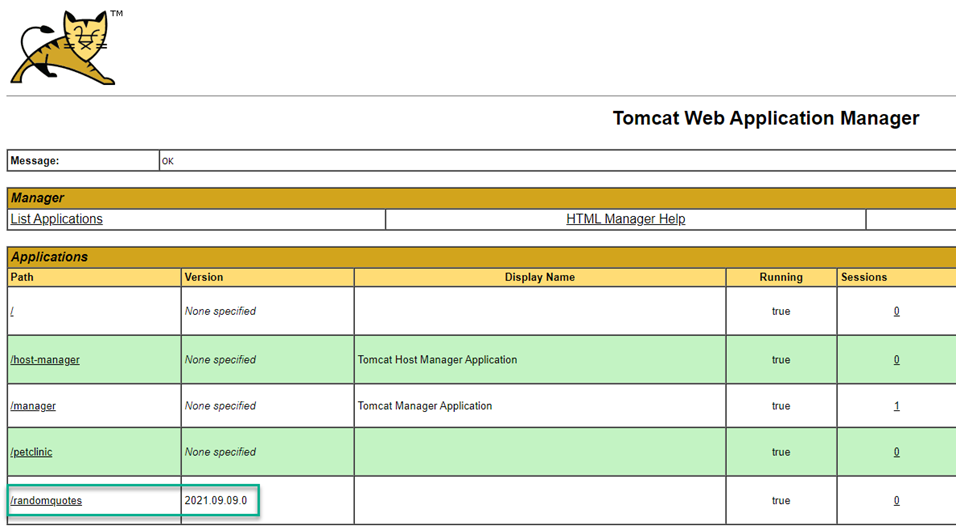
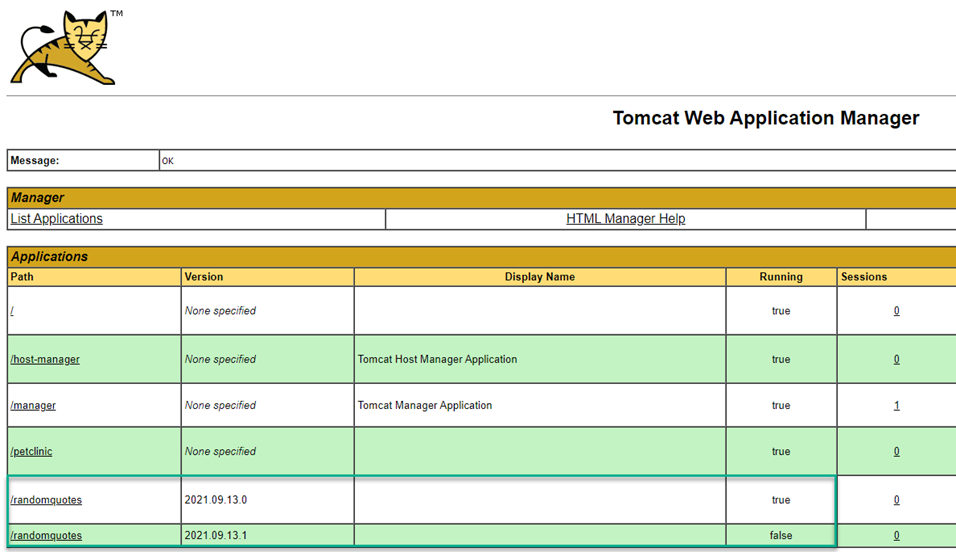
Finishing up tomcat

diff --git a/docs/deployments/patterns/rollbacks/tomcat/index.md b/docs/deployments/patterns/rollbacks/tomcat/index.md
@@ -9,15 +9,24 @@ In Tomcat v7, Apache included the ability to do [parallel deployments](https://t
 ## Configuring an application rollback for Tomcat
 The following guide will configure a code rollback for the Random Quotes application.  The deployment process will consist of the following steps:
 - Calculate Deployment Mode
+- Rollback reason
 - Deploy Random Quotes to Tomcat
 - Start App in Tomcat
 - Stop App in Tomcat
+- Block Release Progression
+
+:::warning
+The rollback strategy described in this guide will not work if the [undeployOldVersions](https://tomcat.apache.org/tomcat-9.0-doc/config/host.html) feautre is enabled on Tomcat.
+:::
 
 ### Calculate Deployment Mode
 The first step in your process is going to be determining what scenario you're working with.  The [Calculate Deployment Mode](https://library.octopus.com/step-templates/d166457a-1421-4731-b143-dd6766fb95d5/actiontemplate-calculate-deployment-mode) Community Step Template has been expressly created for this purpose by the Octopus Solutions team.  This template produces a set of [Output Variables](https://octopus.com/docs/deployments/custom-scripts/output-variables) that tell you what scenario has been detected.  In addition, the template produced output variables in [Variable Run Condition](https://octopus.com/docs/projects/steps/conditions) syntax that can be applied to subsequent steps.
 :::info
 The Calculate Deployment Mode step template requires no configuration or parameters.
 :::
+
+### Rollback reason
+This is a [Manual Intervention](https://octopus.com/docs/projects/built-in-step-templates/manual-intervention-and-approvals) step which prompts the user for the reason they are rolling back.  The text entered is stored in an output variable which will be used in the Block Release Progression step further down the process.
 
 ### Deploy Random Quotes to Tomcat Via Manager
 Octopus Deploy contains a built-in step to deploy to a Tomcat server using the Manager feature.  Under the `Advanced Options` section, you will find the place to specify the version number of the application as mentioned above.  When deployed, the step renames the the `.war` file to `<contextpath>##<version>.war` to allow multiple versions of the application.  In the following screenshot, you will see the Octpous variable of `#{Octopus.Release.Number}` being used for version number
@@ -59,3 +68,28 @@ Reactivating an older version in Tomcat would not result in diverting traffic aw
 Octopus Deploy has a [System Variable](https://octopus.com/docs/projects/variables/system-variables) that can be used to identify the version that needs to be stopeed, `#{Octopus.Release.CurrentForEnvironment.Number}`.  This variable can be used for the version number for the Start/Stop App in Tomcat
 
 ![](octopus-tomcat-stop-app.png)
+
+
+
+### Block Release Progression
+Rolling back usually means that there is something wrong with the release.  The [Block Release Progression](https://library.octopus.com/step-templates/78a182b3-5369-4e13-9292-b7f991295ad1/actiontemplate-block-release-progression) Community Step Template will set the Block flag on a release so it is prevented from being deployed to other environments.
+
+- Octopus Url: #{Octopus.Web.BaseUrl} (default value)
+- Octopus API Key: API Key with permissions to block releases
+- Release Id to Block: #{Octopus.Release.CurrentForEnvironment.Id} (default value)
+- Reason: #{Octopus.Action[Rollback reason].Output.Manual.Notes} (text from the Manual Intervention step)
+
+Ensure to set the variable run condition to:
+
+```
+#{Octopus.Action[Calculate Deployment Mode].Output.RunOnRollback}
+```
+
+## What a rollback looks like
+When a rollback occurs, you should see something similar to this within Tomcat showing the older version is running and the newest version is not.
+
+![](tomcat-random-quotes-version.png)
+
+Within Octopus, you will see that the version is now blocked from being deployed
+
+![](octopus-release-blocked.png)
